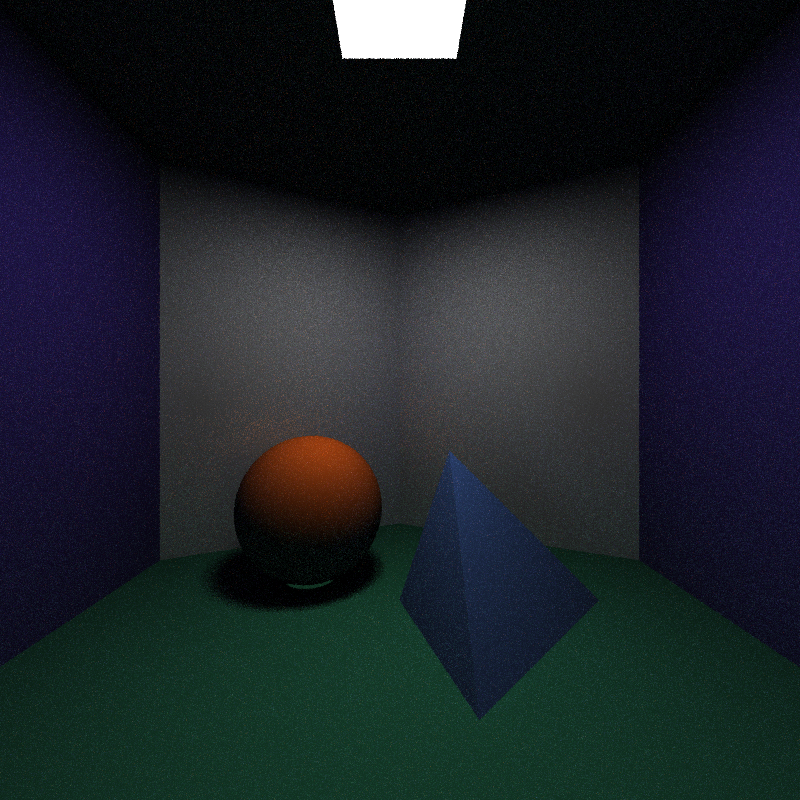
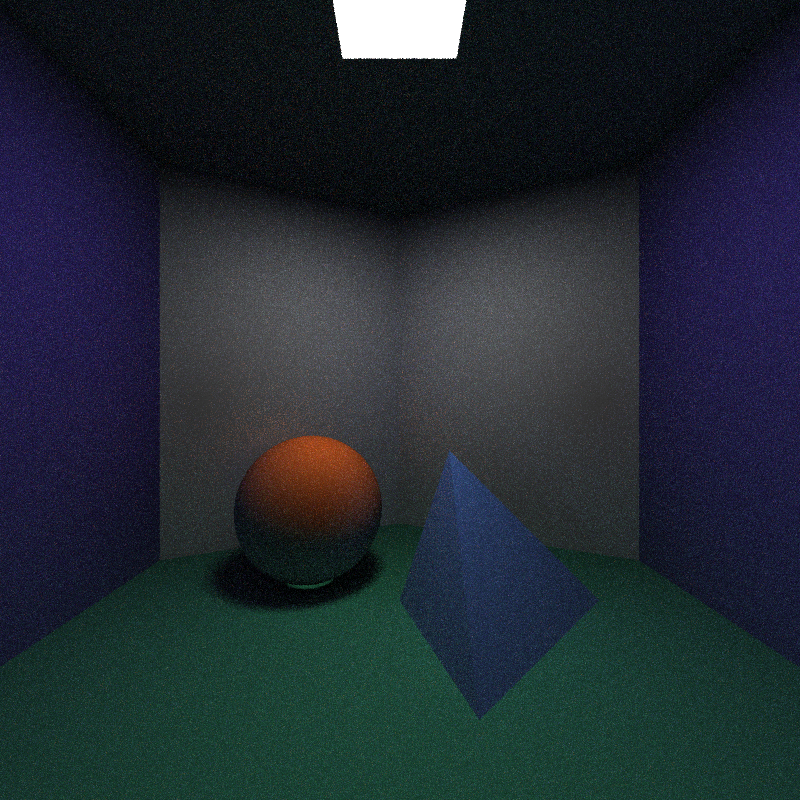
Transparent initial commit

Changed region(s): [[0.0, 0.0, 1.0, 1.0], [0.25, 0.2812, 0.2812, 0.3125]]

diff --git a/Tracer2/Material.cpp b/Tracer2/Material.cpp
@@ -27,6 +27,7 @@ Ray* Material::reflect_ray(Scene& myscene, const Ray& r, hit_record& rec, int de
 	if (mirror) {
 		// Perfect mirror reflection (todo: add perturbation)
 		ref_ray = new Ray(r.at(rec.t), unit_vector(r.get_direction() - 2 * dot(r.get_direction(), rec.normal) * rec.normal));
+		//ref_ray = new Ray(transparent(myscene, r, rec));
 	}
 	else {
 		ref_ray = getRandomDirection(r, rec);
@@ -73,4 +74,40 @@ Ray* Material::getRandomDirection(const Ray& r, hit_record& rec){
 		rayOut = new Ray(r.at(rec.t), directionRay);
 	}
 	return rayOut;
+}
+
+Ray Material::transparent(Scene& myscene, const Ray& r, hit_record& rec){
+	float n1 = 1;
+	float n2 = rec.RI;
+	float cost = dot(rec.normal, r.get_direction() * -1);
+
+	Vec3 N = rec.normal;
+	if (cost < 0)
+		cost = -cost;
+	else
+	{
+		std::swap(n1, n2);
+		N = N * -1;
+	}
+
+	Vec3 R = unit_vector(r.get_direction() - 2 * dot(r.get_direction(), N) * N);; //perfect reflection
+	Vec3 tmp = ((n1 / n2) * r.get_direction() + N * (-n1 / n2) * dot(r.get_direction(), N)) 
+				- sqrt(1 - pow((n1 / n2), 2) * (1 - pow(dot(r.get_direction(), N), 2))); //refract.
+	if (tmp.get_x() < 0 || tmp.get_y() < 0 || tmp.get_z() < 0)
+		tmp = { 0,0,0 };
+
+	Vec3 T = unit_vector(tmp); //refraction
+	Ray refl_ray{ r.at(rec.t), R};
+	Ray refr_ray{ r.at(rec.t), T};
+
+	//Ray refl_ray2 = build_path(myscene, refl_ray);	//Trace the reflection ray
+	//Ray refr_ray2 = build_path(myscene, refr_ray); 	//Trace the refraction ray
+
+	double rand = random_double();
+	if (rand >= 0.5) 
+		 return build_path(myscene, refl_ray);	//Trace the reflection ray
+	else 
+		 return build_path(myscene, refr_ray); 	//Trace the refraction ray
+
+	//Idk what to do now.
 }

diff --git a/Tracer2/Tracer.cpp b/Tracer2/Tracer.cpp
@@ -157,13 +157,6 @@ Ray build_path(Scene myscene, Ray& origin_ray) {
 			return origin_ray;
 		}
 
-		// Russian roulette
-		double rand = random_double();
-		if (rand > origin_ray.rho) {
-			// Early termination
-			return origin_ray;
-		}
-
 		// Reflect the ray
 		ref_ray = nearest_object->get_material().reflect_ray(myscene, origin_ray, nearest_rec, origin_ray.depth + 1);
 		origin_ray.next_ray = ref_ray;

diff --git a/Tracer2/Shape.h b/Tracer2/Shape.h
@@ -10,6 +10,7 @@ struct hit_record {
 	double t; // distance along the ray where the intersection occurs
 	double u;
 	double v;
+	double RI; //refractive indice
 	bool front_face;
 
 	inline void set_face_normal(const Ray& r, const Vec3& outward_normal) {

diff --git a/Tracer2/Material.h b/Tracer2/Material.h
@@ -37,6 +37,8 @@ public:
 
 	Ray* getRandomDirection(const Ray& r, hit_record& rec);
 
+	Ray transparent(Scene& myscene, const Ray& r, hit_record& rec);
+
 	double get_radiance(Scene myscene, Ray& r, hit_record rec);
 
 	double get_rho() {

diff --git a/Tracer2/Vec3.h b/Tracer2/Vec3.h
@@ -92,6 +92,10 @@ public:
 		return t * v;
 	}
 
+	inline friend Vec3 operator-(const Vec3& v, double t) {
+		return Vec3(v.x - t, v.y - t, v.z - t);
+	}
+
 	inline friend Vec3 operator/(Vec3 v, double t) {
 		return (1 / t) * v;
 	}
